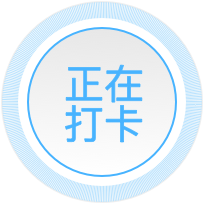
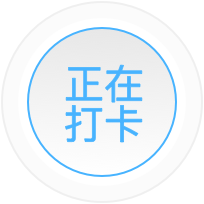
优化

Changed region(s): [[0.0, 0.0, 1.0, 1.0]]

diff --git a/SignInView/SignInView.m b/SignInView/SignInView.m
@@ -53,7 +53,7 @@ typedef NS_ENUM(NSInteger, SignInStatus) {
             pressingLayer = [CAShapeLayer new];
             [self.layer addSublayer:pressingLayer];
             pressingLayer.position = fillRect.origin;
-            pressingLayer.path = [UIBezierPath bezierPathWithArcCenter:CGPointMake(fillRect.size.width/2, fillRect.size.height/2) radius:(BTN_WIDTH-PRESSING_LINE_WIDTH)/2 startAngle:-M_PI_2 endAngle:M_PI * 2 - M_PI_2 clockwise:YES].CGPath;
+            pressingLayer.path = [UIBezierPath bezierPathWithArcCenter:CGPointMake(fillRect.size.width/2, fillRect.size.height/2) radius:(BTN_WIDTH-PRESSING_LINE_WIDTH-2)/2 startAngle:-M_PI_2 endAngle:M_PI * 2 - M_PI_2 clockwise:YES].CGPath;
             pressingLayer.fillColor = [UIColor clearColor].CGColor;
             pressingLayer.strokeColor = [UIColor colorWithRed:126.0f/255 green:218.0f/255 blue:255.0f/255 alpha:1].CGColor;
             pressingLayer.lineWidth = PRESSING_LINE_WIDTH;
@@ -123,14 +123,17 @@ typedef NS_ENUM(NSInteger, SignInStatus) {
         _timer = nil;
         counter = 0;
         status = SignInStatusDone;
-        if(self.delegate){
-            [self.delegate onSignInComplete];
-        }
         CGRect bounds = self.bounds;
         self.bounds = CGRectMake(0, 0, bounds.size.width/2, bounds.size.height/2);
         [UIView animateWithDuration:ANIMATION_DURATION delay:0 usingSpringWithDamping:0.2f initialSpringVelocity:5 options:0 animations:^{
             self.bounds = bounds;
-        } completion:nil];
+        } completion:^(BOOL finished) {
+            if(finished){
+                if(self.delegate){
+                    [self.delegate onSignInComplete];
+                }
+            }
+        }];
     }else{
         counter ++;
     }
